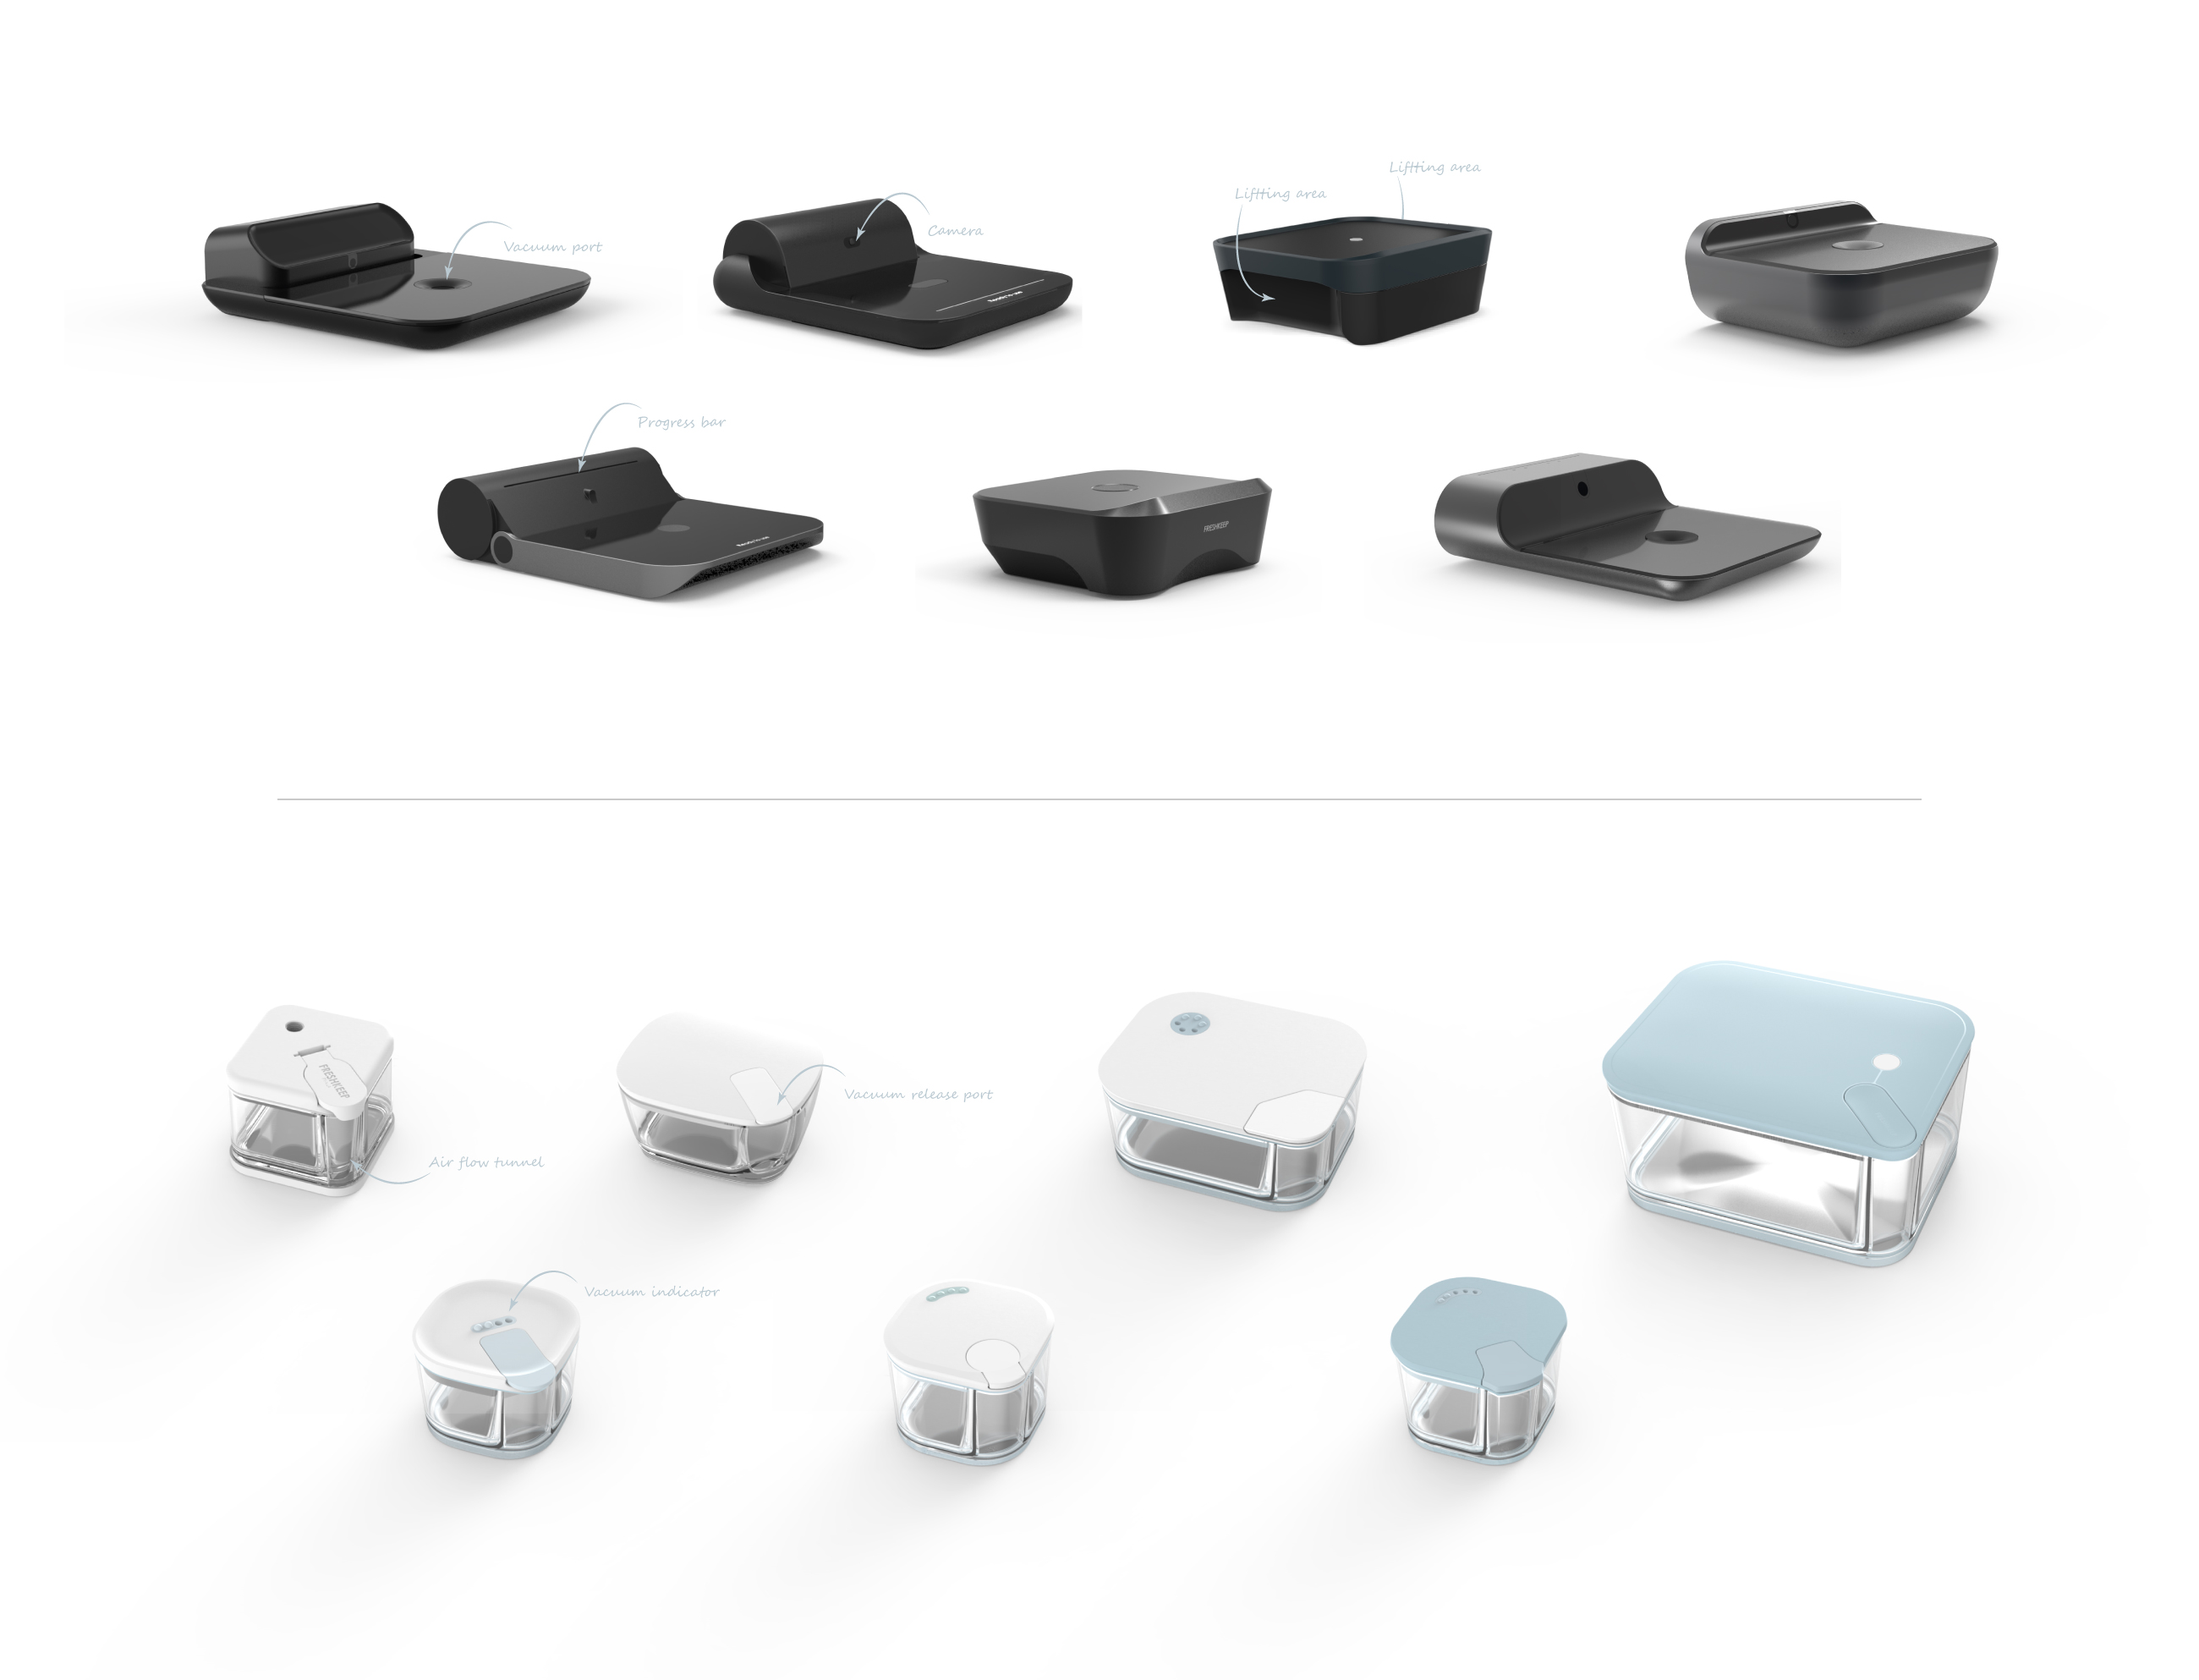
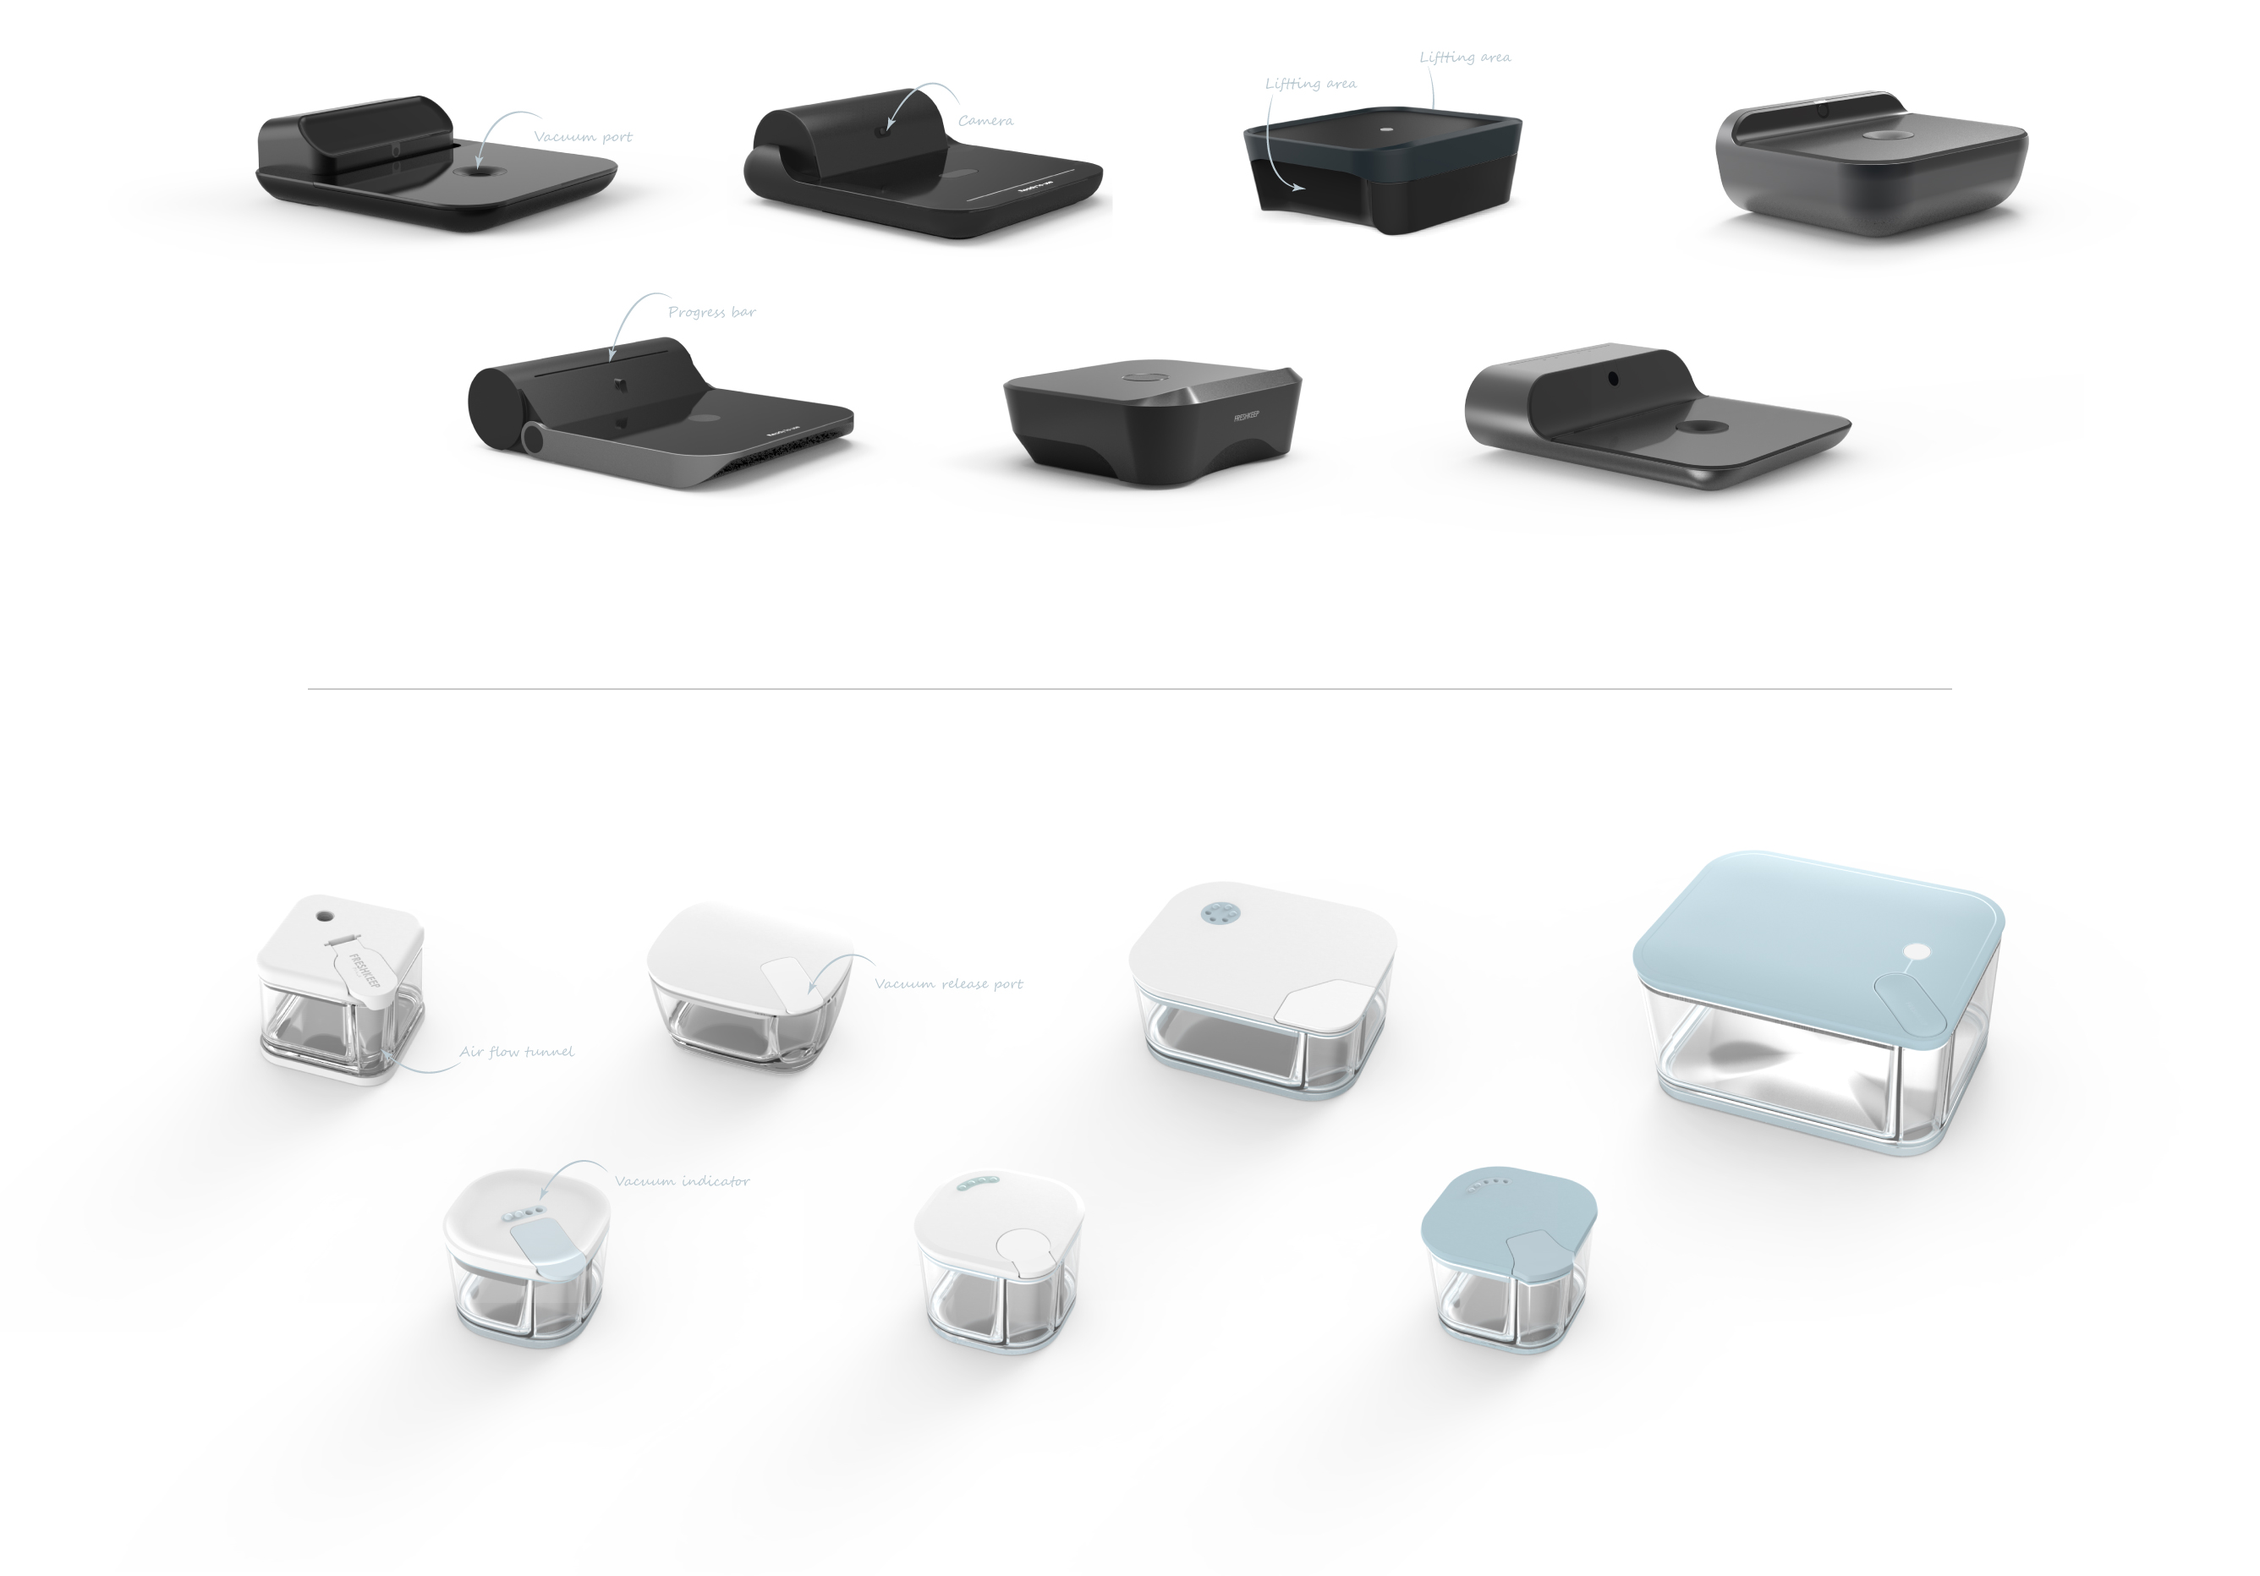
added support for custom style to elements inside a work added custom style for early exploration image

diff --git a/src/Components/additional-info/additional-info.js b/src/Components/additional-info/additional-info.js
@@ -12,29 +12,30 @@ function AdditionalInfo(props) {
         let storedWork = works.content.value.find(work => work.name === props.match.params.workName);
         let workAdditionalInfo = storedWork.additionalInfo;
         return workAdditionalInfo.map((additionalInfoItem, index) => {
-            return renderSpecificIElement(additionalInfoItem.type, additionalInfoItem.value, index);
+            return renderSpecificIElement(additionalInfoItem.type, additionalInfoItem.value, additionalInfoItem.customStyle ,index);
         });
     }
-    function renderSpecificIElement (elementType, elementValue, id) {
+    function renderSpecificIElement (elementType, elementValue, elementCustomStyle, id) {
+        elementCustomStyle = elementCustomStyle || {};
         switch (elementType) {
             case "title":
-                return (<div className="title" key={"title-" + id.toString() } >
+                return (<div className="title" key={"title-" + id.toString() } style={elementCustomStyle} >
                     <div className="title-headline" key={"title-headline-" + id.toString()}> {elementValue.headline} </div>
                     <div className="title-description" key={"description-" + id.toString()}> {elementValue.description} </div>
                 </div>);
             case "subTitle":
-                return (<div className="subtitle" key={"subtitleTitle-" + id.toString()}>
-                    <div className="subtitle-headline" key={"subtitle-headline-" + id.toString()}> {elementValue.headline} </div>
-                    <div className="subtitle-description" key={"subtitle-description-" + id.toString()}> {elementValue.description} </div>
+                return (<div className="subtitle" key={"subtitleTitle-" + id.toString()} style={elementCustomStyle}>
+                    <div className="subtitle-headline" key={"subtitle-headline-" + id.toString()} > {elementValue.headline} </div>
+                    <div className="subtitle-description" key={"subtitle-description-" + id.toString()} > {elementValue.description} </div>
                 </div>);
             case "image":
-                return (<img className="image" key={"image-" + id.toString()} src={elementValue} alt="" >
+                return (<img className="image" key={"image-" + id.toString()} src={elementValue} alt=""  style={elementCustomStyle}>
                 </img>);
             case "images":
-                return (<ImageGallery images={elementValue} id={id} key={"image-gallary" + id.toString()}> </ImageGallery>);
+                return (<ImageGallery images={elementValue} id={id} key={"image-gallary" + id.toString()} style={elementCustomStyle}> </ImageGallery>);
             case "group":
-                let groupItems =  elementValue.map((element, index) => renderSpecificIElement(element.type, element.value,id + "-" + index));
-                return <div className="group" key={"group-" + id}> {groupItems} </div>;
+                let groupItems =  elementValue.map((element, index) => renderSpecificIElement(element.type, element.value, element.customStyle ,id + "-" + index));
+                return <div className="group" key={"group-" + id} style={elementCustomStyle}> {groupItems} </div>;
             default:
                 return (<div> </div>);
         }

diff --git a/src/Store/portfolio-store-data.js b/src/Store/portfolio-store-data.js
@@ -197,12 +197,14 @@ export const portfolioData = {
                                     type: "subTitle",
                                     value: {
                                         headline: "Early Explorations",
-                                        description: ""
-                                    }
+                                        description: "",
+                                    },
+                                    customStyle: {"marginLeft": "8.5vw"}
                                 },
                                     {
                                         type: "image",
-                                        value: siloEarlyExploration
+                                        value: siloEarlyExploration,
+                                        customStyle: {"width": "82vw"}
                                     }
                                 ]
                             },
